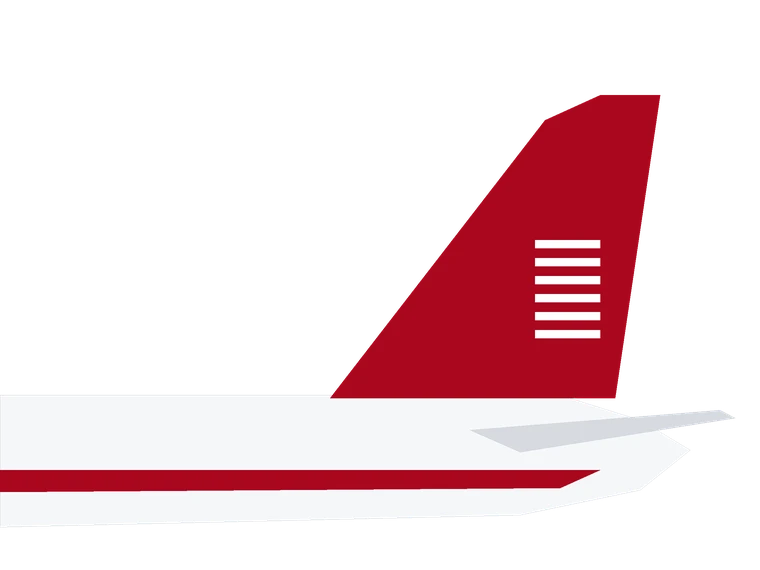
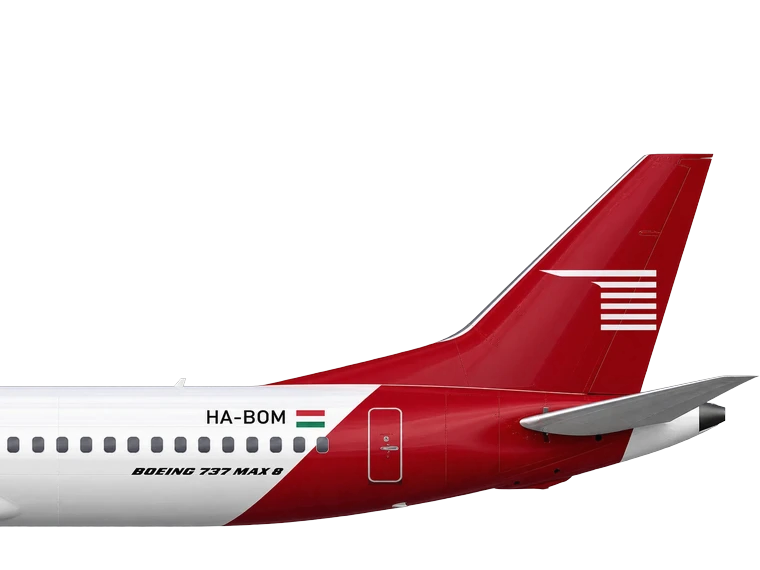
Replace a stand-in livery with the member's own

Changed region(s): [[0.0, 0.1491, 0.9987, 0.9246]]

diff --git a/assets/js/data.js b/assets/js/data.js
@@ -1156,7 +1156,7 @@ const MEMBERS = typeof MWA_MEMBERS !== 'undefined' ? MWA_MEMBERS : [
   },
   {
     name:'Magyair Hungarian Airlines', short:'Magyair', code:'MG', country:'Hungary',
-    color:'#AA061F', tail:'assets/img/members/magyair.webp',   // stand-in until the livery arrives
+    color:'#AA061F', tail:'assets/img/members/magyair.webp',
     hubs:['BUD'], focus:[], joined:2026,
     blurb:'A Hungarian airline from Budapest, connecting Central Europe with ' +
           'Western Europe and the Red Sea. "Unlock your vacation."',

diff --git a/index.html b/index.html
@@ -262,7 +262,7 @@
   </div>
 </footer>
 <script src="assets/js/members.generated.js?v=012b97ee"></script>
-<script src="assets/js/data.js?v=be42656b"></script>
+<script src="assets/js/data.js?v=7b8d2c17"></script>
 <script src="assets/js/site.js?v=8db25271"></script>
 <script src="assets/js/land.js?v=6a275796"></script>
 <script src="assets/js/cinematic.js?v=297da32e"></script>

diff --git a/book.html b/book.html
@@ -219,7 +219,7 @@
   </div>
 </footer>
 <script src="assets/js/members.generated.js?v=012b97ee"></script>
-<script src="assets/js/data.js?v=be42656b"></script>
+<script src="assets/js/data.js?v=7b8d2c17"></script>
 <script src="assets/js/site.js?v=8db25271"></script>
 <script src="assets/js/booking.js?v=d0ea5d50"></script>
 <script>

diff --git a/bookings.html b/bookings.html
@@ -122,7 +122,7 @@
   </div>
 </footer>
 <script src="assets/js/members.generated.js?v=012b97ee"></script>
-<script src="assets/js/data.js?v=be42656b"></script>
+<script src="assets/js/data.js?v=7b8d2c17"></script>
 <script src="assets/js/site.js?v=8db25271"></script>
 <script src="assets/js/booking.js?v=d0ea5d50"></script>
 <script>

diff --git a/members.html b/members.html
@@ -148,7 +148,7 @@
   </div>
 </footer>
 <script src="assets/js/members.generated.js?v=012b97ee"></script>
-<script src="assets/js/data.js?v=be42656b"></script>
+<script src="assets/js/data.js?v=7b8d2c17"></script>
 <script src="assets/js/site.js?v=8db25271"></script>
 <script>
   renderMembers(document.getElementById('membersAll'));

diff --git a/join.html b/join.html
@@ -182,7 +182,7 @@
   </div>
 </footer>
 <script src="assets/js/members.generated.js?v=012b97ee"></script>
-<script src="assets/js/data.js?v=be42656b"></script>
+<script src="assets/js/data.js?v=7b8d2c17"></script>
 <script src="assets/js/site.js?v=8db25271"></script>
 <script>
   renderJoin(document.getElementById('joinGroups'));

diff --git a/network.html b/network.html
@@ -145,7 +145,7 @@
   </div>
 </footer>
 <script src="assets/js/members.generated.js?v=012b97ee"></script>
-<script src="assets/js/data.js?v=be42656b"></script>
+<script src="assets/js/data.js?v=7b8d2c17"></script>
 <script src="assets/js/site.js?v=8db25271"></script>
 <script src="assets/js/land.js?v=6a275796"></script>
 <script>

diff --git a/news.html b/news.html
@@ -117,7 +117,7 @@
   </div>
 </footer>
 <script src="assets/js/members.generated.js?v=012b97ee"></script>
-<script src="assets/js/data.js?v=be42656b"></script>
+<script src="assets/js/data.js?v=7b8d2c17"></script>
 <script src="assets/js/site.js?v=8db25271"></script>
 <script>
   renderPress(document.getElementById('releases'));

diff --git a/airline-air-siam.html b/airline-air-siam.html
@@ -187,7 +187,7 @@
   </div>
 </footer>
 <script src="assets/js/members.generated.js?v=012b97ee"></script>
-<script src="assets/js/data.js?v=be42656b"></script>
+<script src="assets/js/data.js?v=7b8d2c17"></script>
 <script src="assets/js/site.js?v=8db25271"></script>
 <script>
   document.getElementById('ftMembers').innerHTML =

diff --git a/airline-akerair.html b/airline-akerair.html
@@ -224,7 +224,7 @@
   </div>
 </footer>
 <script src="assets/js/members.generated.js?v=012b97ee"></script>
-<script src="assets/js/data.js?v=be42656b"></script>
+<script src="assets/js/data.js?v=7b8d2c17"></script>
 <script src="assets/js/site.js?v=8db25271"></script>
 <script>
   document.getElementById('ftMembers').innerHTML =

diff --git a/airline-altasib.html b/airline-altasib.html
@@ -203,7 +203,7 @@
   </div>
 </footer>
 <script src="assets/js/members.generated.js?v=012b97ee"></script>
-<script src="assets/js/data.js?v=be42656b"></script>
+<script src="assets/js/data.js?v=7b8d2c17"></script>
 <script src="assets/js/site.js?v=8db25271"></script>
 <script>
   document.getElementById('ftMembers').innerHTML =

diff --git a/airline-avni-airlines.html b/airline-avni-airlines.html
@@ -310,7 +310,7 @@
   </div>
 </footer>
 <script src="assets/js/members.generated.js?v=012b97ee"></script>
-<script src="assets/js/data.js?v=be42656b"></script>
+<script src="assets/js/data.js?v=7b8d2c17"></script>
 <script src="assets/js/site.js?v=8db25271"></script>
 <script>
   document.getElementById('ftMembers').innerHTML =
